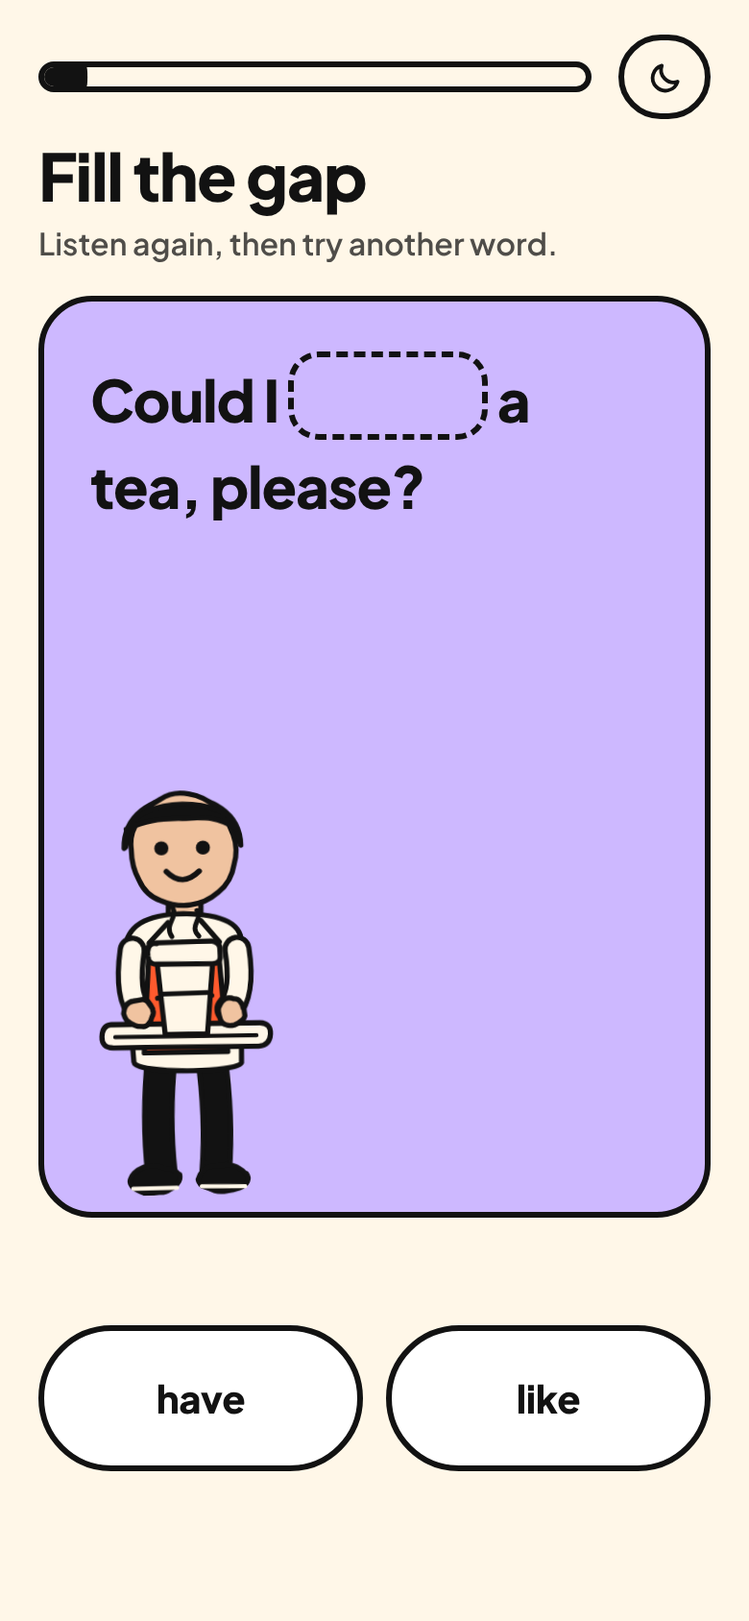
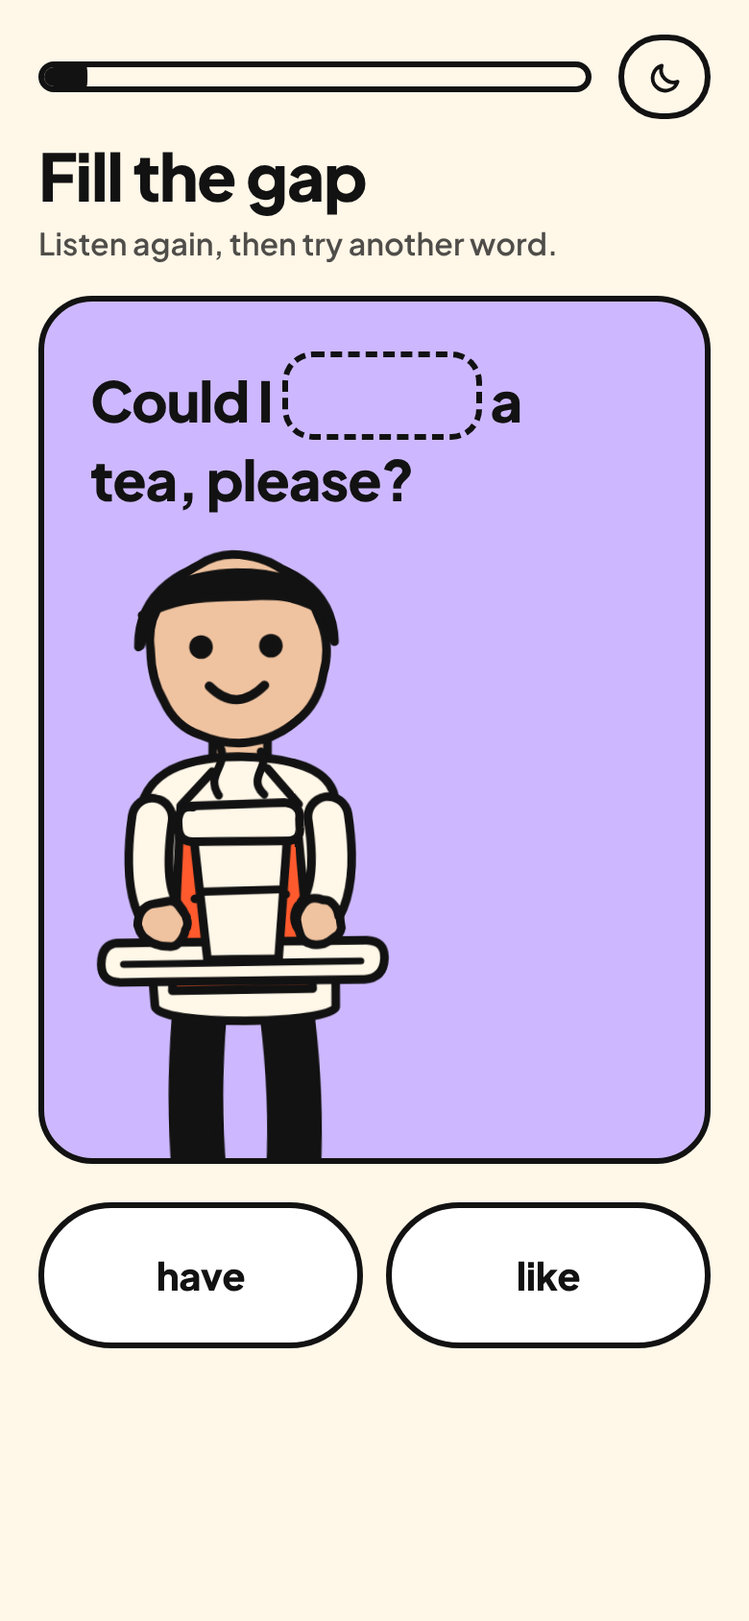
Talk with Maya: let Maya finish her line, drop the disc, fix the waiting pill contrast

Changed region(s): [[0.0308, 0.2156, 0.9538, 0.9242], [0.6154, 0.2156, 0.7077, 0.2773], [0.0308, 0.7701, 0.0615, 0.8009]]

diff --git a/docs/prototypes/01-talk-with-maya.html b/docs/prototypes/01-talk-with-maya.html
@@ -114,11 +114,7 @@ h1{
 .card[data-state="listen"] .scene{transform:translateY(16px) scale(1.07) rotate(-2.5deg)}
 .card[data-state="good"] .scene{transform:translateY(-6px) scale(1.04)}
 .card[data-state="miss"] .scene{transform:translateY(10px) scale(1.05) rotate(2deg)}
-/* the spotlight disc sits behind her head and holds the lean-in with her */
-.disc{
-  position:absolute; z-index:0; left:50%; width:352px; height:352px; margin-left:-176px; top:100px;
-  border-radius:50%; background:var(--cream); border:3px solid var(--ink);
-}
+/* No disc behind her: the card is one block colour and she is cropped straight into it. */
 .sway{width:100%; height:100%; animation:sway 3.4s ease-in-out infinite}
 @keyframes sway{0%,100%{transform:rotate(-1.1deg) translateY(0)} 50%{transform:rotate(1.1deg) translateY(-5px)}}
 .face{position:absolute; inset:0; opacity:0}
@@ -168,7 +164,8 @@ h1{
   transition:transform .14s var(--spring), opacity .2s;
 }
 .pill:active{transform:translateY(2px) scale(.985)}
-.pill[disabled]{opacity:.42; cursor:default}
+/* Dimmed, but the label still clears 4.5:1 against the pill. */
+.pill[disabled]{opacity:.68; cursor:default; box-shadow:none}
 .pill .chev{font-size:22px; line-height:1; margin-top:-2px}
 .pill svg{width:22px; height:22px; display:block}
 .pill .ring{
@@ -222,7 +219,6 @@ h1{
     </div>
 
     <div class="scene" id="scene">
-      <span class="disc" aria-hidden="true"></span>
       <div class="sway" id="sway">
         <div class="face on" data-face="idle"><svg class="art" aria-hidden="true" focusable="false" xmlns="http://www.w3.org/2000/svg" viewBox="0 0 704 704" fill="none" shape-rendering="auto"><mask id="viewboxMask-1"><rect width="704" height="704" rx="0" ry="0" x="0" y="0" fill="#fff" /></mask><g mask="url(#viewboxMask-1)"><g fill-rule="evenodd" clip-rule="evenodd"><path d="M705.3 1074a2351.1 2351.1 0 0 1-15.6-101c-1-7.7-2.5-16.4 2.7-22 7.3-8 14-14.8 14.8-26.2.8-10.7-2.8-22.4-5-32.8a809.4 809.4 0 0 0-17.3-64.7c-6.6-21.7-13.9-43.2-21.3-64.6-6.9-20-13.5-40.3-22.5-59.5-17-36.5-46-63.5-81.6-81.6-9-4.5-27-20.5-36.3-24-8.5-3.4-8.5 6.3-16.9 2.6-6.7-2.9-13-6.7-16.7-13.2-4-7-14.3-16.9-15.9-25-3.3-17.4.3-32.2-12-45.3a90 90 0 0 0-41.1-23.8c-33.7-9.3-78.5-2.8-98.8 28.5-9.7 14.9-13 33-26.2 45.1-11.4 10.7-8.8 18-23.6 23.4-.9.3-23.6-4.5-24.4-4.2-16.2-3.5-31.7 6.2-46.5 11.8a325.4 325.4 0 0 0-63 32.3 399.2 399.2 0 0 0-102.3 98.5 482.5 482.5 0 0 0-76.4 161c-1.7 6.4-3.5 13-1.5 19.4 1.7 5.3 5.4 9.2 9.8 12.4 6 4.3 18 7 17.7 15.7-.1 6.6-2.4 13.5-3.5 20-1.3 7.7-2.3 15.5-3.4 23.2-4.8 35.4-8.6 71-10.3 106.6a920 920 0 0 0-.5 106c.1 2.3.8 4.5 2 6.2-1 .4-1.2 2.4.1 2.7l2.7.5a12 12 0 0 0 7 2.4l5.5.2c19.3 4 38.6 7.9 58.1 10.8 23.8 3.5 47.6 6.3 71.5 8.7 49.2 4.8 98 3.2 147.1.6a1877 1877 0 0 1 147.4-2c49.2 1.4 98.4 3.5 147.6 4.4 55 1 110-.5 164.8-5 7.5-.5 12.2-6.5 10.7-14-8.9-44.7-19-89.1-27-134Z" fill="#d08b5b"/><path d="m201 597.5 1.2-.4c14.5-5.7 29.6-14.8 45.4-11.4.5-.2 10.8 1.9 17.9 3.2l-6.7 7L247 598c40.7 67.1 88.8 100.7 144.3 100.7 55.5 0 97.7-33.6 126.4-100.7l4-1c.4 0 1 .2 1.5.4 9.3 3.6 27.4 19.6 36.3 24.1 35.6 18 64.5 45 81.6 81.6 8.7 18.6 15.2 38 21.8 57.5l.7 2c7.4 21.4 14.7 43 21.3 64.6 6.3 20.4 12 41 16.6 61.8l.7 2.9c2.2 10.4 5.8 22 5 32.8a29 29 0 0 1-3 10.7l-80.4 29 38.4 261.3c-35.1 1.5-70.3 2-105.5 1.3-49.2-.9-98.4-3-147.6-4.3-47.7-1.2-95.3-.7-143 1.7l-12 .6a946.3 946.3 0 0 1-139.5-1l-3.1-.3v-38.3l16.3-212.9-83-15.6-81.3-39.5a21.7 21.7 0 0 1-5.6-8.8c-1.9-6-.5-12 1-18l.5-1.3a492.8 492.8 0 0 1 76.4-161A399.3 399.3 0 0 1 138 629.7c19.8-13 40.9-23.9 63-32.3Z" fill="#ffd93d"/><path d="M232.2 584.6c5.1-.3 10.3.6 15.4 1 .4.1.6.8 0 .9-9 1.9-18 4.5-26.9 7.1l-3.8 1.2c-10 3-19.8 6-29.6 10-19.4 7.9-37.8 18.5-54.8 30.8C67.2 682.8 20 754.3-9.9 828.3a526 526 0 0 0-24.3 77c-.4 1.6-2 5.4-1 7 .7 1.3 3.6 2.1 5 2.9l4.5 2.3 25.2 12.9 2.3 1.1c38 18.6 78.4 34.4 121 35.5l.4-3.7a342 342 0 0 1 9.9-60c.3-1 1.6-.6 1.7.3 3 23.1 2 46.4 1 69.7-1.8 41-4.3 82.2-6.5 123.3-1.2 20.6-2.6 41-3.9 61.7-1.3 20.5-1.7 41.6-4.7 62-.6 4.6-6 7-10 6.6-4.4-.5-7.9-4.5-8-9 0-11.9 1.5-24 2.4-35.8l2.5-33.8c3.1-41.1 6.8-82.2 10.2-123.3a4771 4771 0 0 1 3.8-43.7C76.4 979.8 34.2 963-6.1 943.5c-.6 13.2-2 26.5-3.4 39.6-3.8 36.8-7.1 73.6-9.6 110.5a2254.2 2254.2 0 0 0-4.2 92.7l-.2 7c0 4.4-.5 8.5-4.3 11.7-3.7 3.3-8.9 3.5-12.6 0-5-4.6-4.2-10.9-4-17.1a1675.6 1675.6 0 0 1 1.8-47.2 1321 1321 0 0 1 10.5-109.5l2-14c3.5-26 7.5-52.7 15.5-77.9-3.1-1.5-6.2-3-9.3-4.7-5.5-2.7-11.2-5.4-16.6-8.4-4.2-2.5-7.9-5.8-9-10.8-1.4-5.5.6-11.5 2-16.9v-.4a502 502 0 0 1 26.6-80 523.2 523.2 0 0 1 67.8-117 353.8 353.8 0 0 1 88.7-83.3 239 239 0 0 1 53.8-25.7 142.6 142.6 0 0 1 42.8-7.5Zm90.1-66c6-6.5 18.1.2 15.2 8.8a108.2 108.2 0 0 1-34.7 52A79.4 79.4 0 0 1 247 598l1.7 2.4a321.1 321.1 0 0 0 46.1 52.6c36 31.2 84.8 48 132 36 37.1-9.4 69.8-38.8 79.4-76.2-1.3.6-3 .9-4.8.5-7.7-1.7-15.3-9.8-20.3-15.6-5.3-6.3-9.5-13-12.6-20.7-5.6-14-7.4-32.1.3-45.7 1-1.7 3-.7 3.3 1l.3 2.5c1.5 12.7 3.3 25 9.3 36.6a76 76 0 0 0 18.2 23.1c2.6 2 5.8 3.6 8.1 6l.5.4c.6-5 4.1-7.3 7.6-7.2 3.3.2 7.3 1.6 8.8 2.3l.1.1a341 341 0 0 1 65.1 42 259 259 0 0 1 88.4 129c7.5 25.3 11.8 51.4 16.3 77.4l2.8 16c4.2 23.9 8.9 48.4 18.4 70.7 2.5 5.7.6 11.1-5.5 13.4A1493 1493 0 0 1 688 953c3.7 16 6 32.5 8.7 48.5 6 34.1 13.2 68 19.4 102 3.2 17.5 6.1 35 9.3 52.3l4.7 25.2 2.4 13.6.1.7c.5 2.4 1 4.9.4 7.3-.8 2.7-2.9 4.6-4.8 6.6-1.6 1.6-3.8 1.6-5.7.7l-.7-.3c-3.4-1.6-6-3.2-7.3-7-.7-2.5-1-5.2-1.5-7.7a3535.6 3535.6 0 0 1-7.8-43.6l-1.6-9.1c-5.2-31.4-10.2-62.9-12.8-94.5-1-14-2.3-28.1-3.5-42.2l-.9-10.5c-1.1-13.3-2.5-27-2.7-40.5l-4.5 1.6L657 964c-5.5 2-12.5 6-18.4 5.2-2.9-.3-5-1.2-6.8-2.9 2 28.8 4.8 57.4 8.5 86a1965.7 1965.7 0 0 0 22 135c.6 3.2 1.4 6.4 1.9 9.6.5 3.7-.5 5.9-2.5 9-1.7 2.4-5 3.7-7.8 2-3.6-2.3-5.5-4.3-6.5-8.4-1-3.7-1.6-7.6-2.3-11.4a1654.2 1654.2 0 0 1-11.4-65.2c-7.8-52-12.7-104.4-15.2-156.8a1388 1388 0 0 1-1.4-77.8c0-13.3.5-26.6 1.4-39.9 1-13.4 3-26.5 4.8-39.8 0-.5.7-.5.7 0 .8 14.9 2.1 29.8 2.8 44.7.6 14.3.9 28.5 1.4 42.8.6 18.7 1.5 37.5 2.7 56.2a9.6 9.6 0 0 1 8.5-3.1c4.7-1 9.7-3.4 14.1-5l16.8-5.5 26.4-8.7a679 679 0 0 1-18-80.8l-2-12.3c-4-24.2-8.5-48.5-15.8-72a229.8 229.8 0 0 0-34.8-68.2 370.2 370.2 0 0 0-52.7-55.3C557 627 539.7 614 523 600c.1.9.2 2 0 3-3.5 25.9-17 50-35.8 67.9-37.7 36-93.6 43.4-142 26.5-46.7-16.3-88-55-102.6-102.8-.3-.8.8-1 1.3-.5l2.4 3.3c0-.4.2-.9.7-1a129 129 0 0 0 46.6-29.2 100.2 100.2 0 0 0 21.3-33.3l.4-1c1.7-5 3.2-10.2 7-14.2Z" fill="#000"/></g><g transform="matrix(.99789 0 0 1 156 62)"><g fill-rule="evenodd" clip-rule="evenodd"><path d="M120.4 26.5c63-3.4 118.9-21.1 163.2 18.5 0 0 71.8-53.6 83.8-33.2 8 13.7-3.1 32-.2 49 19.5 33 18.4 89.2 19.5 102.4 2.8 33.1 20.2 157.9 20.2 187.5 0 15.1-12.4 54.7-20.2 76.8-17.3 49-50.3 74-104.4 74-54 0-142.4-45.2-170.7-85.3-2.5-3.5-18.5 6.7-35.3-11C58 385.7 48 349 48 327c0-27.8-18-47.1-15.9-82.8 4.7-79.5 21-214 88.3-217.8Z" fill="#d08b5b"/><path d="M367.4 11.6c8 13.7-3 32 0 49 7.4 12.7 11.9 29 14.6 44.8l-14.8 7.8-5.4.8c-88.2 13-144.6 24.7-169 35.1-24.6 10.5-54.5 47.5-89.7 110.8l-1 2-7 47.2-32 9.8-15 7.1c-.4-27.3-18-46.6-16-81.9 4.7-79.5 21-214 88.4-217.8 63-3.4 118.8-21.1 163.2 18.5C331.5 9.1 359.4-2 367.4 11.6Z" fill="#ffd93d"/><path d="M113.4-66h2.5l2.7.4a22 22 0 0 1 12 6.8l.2.3a31 31 0 0 1 4.1 3.7l.7-.6 2-1.6c3-2.6 6.6-4.5 10.4-5.6l.5-.1h.3c2.7-1 5.6-1.4 8.4-1.4 3.5-.1 6.9.4 10 1.7 3.9 1.6 7.2 4 10 7 1.8 1.6 3.4 3.2 5 5a37.5 37.5 0 0 1 8.6 14.9 170.7 170.7 0 0 1 27-1.3 132.3 132.3 0 0 1 45.9 9.9c3.6 1.4 7.1 3.3 10.4 5.5l2.8 1.7 4.1 2.5c3.2 2 6.3 4.4 9.2 7A99.8 99.8 0 0 1 301.1 0c6.3 3.4 12 7.8 17.2 13a128.4 128.4 0 0 1 28.2-11.9 98.6 98.6 0 0 1 18.8-3.5l4.1-.3 1.8-.2h1.5c.4-.1 1 .9 1 1.3l.1.3.9 1h.8c.7 0 1.6 1.3 2.1 1.9l.4.4a4 4 0 0 1 1 2c.6 4.1 1 8.3 1.5 12.5.1 3.1 0 6.2-.5 9.3l-1.2 9-2 6.3-.7 2.4c-1.6 5.3-3.5 10.4-5.7 15.4 1.6 1.8 3.1 3.6 4.5 5.6l1 1 .4-.3c.5-.2.8 0 1.1.4 3.2 3 5.4 6.6 6.9 10.6l.8 2 .5 1.1a73.7 73.7 0 0 1 4.1 16.9 312 312 0 0 1 5.5 22 5 5 0 0 1-.2 3l.9 1 1.6 1.5c2.7 2.7 5.5 5.6 7.5 8.8 2 3.3 3.6 6.9 5.3 10.4l.3.8.8 1.5a37 37 0 0 1 4 14.6 30.3 30.3 0 0 1-1.9 15.6c-1 4.6-3.5 8.8-7.3 11.5-.9.8-1.7 1.5-2.7 2a8.4 8.4 0 0 1-6.8.9h-.3l-.8-.3c.4.3.6.7 0 1a5 5 0 0 1-1.6.5c.2.3.2.6-.2.8-1 .5-1.8.7-2.6.5l.2 1.4c1.3 10.5 2.5 12.6 3.5 24 .7 11.5 1.8 23 3.3 34.5l.5 4.2a444.4 444.4 0 0 0 10 56.8c1.5 4.4 2.5 8.8 3 13.4a133 133 0 0 1 1.8 14.1c1.1 3 1.7 6.1 1.7 9.3.1 4.2 0 8.4-.5 12.6-.2 4.4-.8 8.7-1.8 13a73.5 73.5 0 0 1-4.6 17 164.8 164.8 0 0 1-20.2 44c-5 7.8-10.3 15.4-16.4 22.4A153.4 153.4 0 0 1 304 504a99.8 99.8 0 0 1-47 2.8 96 96 0 0 1-19.5-4.7c-5.2-1.8-10-4-15-6.3a80 80 0 0 1-21.4-15.7c-.5-.4-.2-1 .4-1.2h.2l-.7-.7-.2-.1-.3-.3c-.4-.4 0-1.1.3-1.3h.5v-.2l-.1-.2h-.2c-.5-.5-.2-1.2.4-1.4h1.3l.2.1-.4-.3c-.6-.5-.4-1 .3-1.3.6 0 1.1.2 1.7.3h.4l.6.3-1-1c-.4-.2 0-1 .3-1.2.4-.3 1.2 0 1.6.3.9.1 2 .5 2.5.9l3.7 3.3c.8.3 1.5.6 2.1 1 1.4 1.5 3 2.8 4.5 4l1.1.8.6.4 6.6 3.9 24 8.1 1.2.3 7.7 1c5.2.5 10.3.5 15.4 0a106 106 0 0 0 30.1-6 141.3 141.3 0 0 0 29.3-15.4 181.4 181.4 0 0 0 19.8-17.5l.9-.8 5.3-6.3 1.6-1.9c6.6-8.1 12.5-17 17.7-26 5.2-9 9.5-18.5 13-28.3 1-3.5 2-7 2.8-10.6a58.3 58.3 0 0 0 3.3-15.8v-1.4l.1-.7a85.7 85.7 0 0 0 .6-8.4v-8.7l-.1-.8-.3-2-1.3-11.8-.6-4.5-.4-2.6-.2-1.5a99 99 0 0 0-1.7-8l-.3-1.1-1.8-8.8-2-8.6a681.6 681.6 0 0 1-9.8-73.1c-.7-8.6-1-17.3-1.2-26 0-.4.2-.7.6-.9v-1.6c-.1-1.5-.1.3-.2-1.4v-5.3c-5.3.4-8.9 0-14-.2h-1c-4.7-.3-9.4-.8-14-1.6 0 .3-.2.4-.5.5h-1.4l.2.7c0 .3-.1.5-.5.6h-1.3a30.2 30.2 0 0 1-10-1l-3-.8-7.5-2.4c-2.6-.6-5.3-.8-8-.1-3 .7-5.4 2-8.5 1.2l-1.8-.7h-.8c-3.2-.5-6-2.5-9-3.6a5 5 0 0 0-3.2.2l-.3.2-1 .7-1.2 1.5-.6.7a15 15 0 0 1-3.6 3.4 9.1 9.1 0 0 1-6.2 2.6c-1.3 0-2.7-.3-4-.7-5 1.6-10.3 1.9-15.3.4a22.1 22.1 0 0 1-8.3-3c-3.5 1.4-6.9 3.4-10.2 5l-.8.5A22.7 22.7 0 0 1 234 197a139.8 139.8 0 0 1-14.8-1.8l-.7-.1-2.4-.4-2-.4-1 .4c-8 3-16.7 5.4-24.8 3.3a22 22 0 0 1-10-3.9l-1.3-.8h-.1l-.1-.1a11 11 0 0 1-6.5-11.2c-.3-1.5-.3-3 0-4.6l-4.3 5a334.7 334.7 0 0 0-15.7 20.1l-1 1.6c-2.8 3.8-5.3 7.8-7.6 11.8l-7.3 12c-3.2 3.5-6.3 7.2-9.4 11l-1.2 1.5-4.4 5.7a116.5 116.5 0 0 0-13.4 24.3 97.3 97.3 0 0 0-5.2 20.7v1a60 60 0 0 0-.3 3.5l.7.5.7.3.6.1c1 .3 2.5 1 2.1 1.6l-1.9 3.7c.2.2.3.5.2.7l-4 7.4v.2l3.1 1.7c2 1.2 3.5 2.6 4.9 4.2 1.4.9 2.8 1.8 4 2.9a30.5 30.5 0 0 1 6.8 11.3c.3 1 .5 2.1.5 3.3-1.2 8.5-11 2.7-11.2 2a26 26 0 0 0-6.3-12.3l-.1-.1c-2-.9-4-1.8-6-2.4l-1 .1c.3.5.1 1-.6 1.1-3.1.6-6.3.8-9.5.5l-4.9-.7c-2 .8-4 1.8-5.7 3l-.6.4h-.1A38.8 38.8 0 0 0 60.7 341l-.3.7A55.7 55.7 0 0 0 66 380 316 316 0 0 0 76 395.2l3.4 4.5a172 172 0 0 1 6.9 6.8l3.1 1.7 1.3.4c2 1 4.1 1.5 6.4 1.6 3 .2 5.8-.2 8.6-1l.6-.3.4-.1c1.5-1 3-2.2 4.3-3.6.3-.3.8-.3 1.5-.2l1-1.1c.2-.3.6-.3.9 0 1-.2 3.5 1.3 2.8 2l-.3.6 1.3.7c2 .6 5.2 2.7 5 3.3h-.1c-.5 1-1.1 1.8-2 2.4l-.2.2-.6.4c.9.5 1.6 1.1 1.2 1.5l-.5 1 5 6.2c1.7 3.7 3.8 7 6.3 10.2 2 3.5 4.5 6.5 7.5 9.3l.7.7 6.7 4.5 1 .6c.5.3 1.4.7 1 1.5l-.2.2c1.5 1 3 1.9 4.6 2.7h.1c.6.5 1.4 1.2.6 1.7-.7.5-2.6-.8-3.5-1.4l-.6-.1.9.5.4.2c.4.3 2.1 1.4 1 1.9-.7 0-1.2-.1-1.7-.5l-1.8-.9c.2.3.2.6-.3.8a3 3 0 0 1-.5 0c1.2.8 2.4 1.5 3.7 2.1l.2.1c.5.4 1.3 1 .7 1.6-.7.6-2.6-.7-3-1l-1.5-.9a1 1 0 0 1-.4.1l1.3.8.6.4c.8.4 1.9 1 1.5 1.8-.4.7-1.6.1-2.3-.3l-.8-.5-.1-.1v.1c-.5.7-1.4.3-2 0l-.6-.4-2.6-1.6-1.3-.8a82.6 82.6 0 0 1-19.3-15.5c-4.1-4.7-7.3-10.1-10.3-15.6l.2-.6-1-2a29.6 29.6 0 0 1-14.7 0 37.3 37.3 0 0 1-15-6.1l-.7-.6c-1.9-1-3.6-2.2-5.2-3.6a87 87 0 0 1-14.8-16.1l-5.5-7.7a66 66 0 0 1-9.7-26.6 53.5 53.5 0 0 1 0-18.1l-1-.9c0 .3-.2.5-.3.4l-2.3-2.3a53.3 53.3 0 0 1-14-32.6c-.7-5.2 0-10.2.7-15.3 0-.3.2-.5.5-.7l.1-1.2a35.2 35.2 0 0 1-11-25.7c.2-3.2.8-6.4 2-9.3l.2-.3c-5.5-.9-9.9-4.8-13.2-9.6l-.8-.7c-6-5-10-12.2-12.8-19.7a46 46 0 0 1-3.9-13.9v-1a89 89 0 0 1-1.2-23 114.8 114.8 0 0 1-4-21.5v-.5l-.2-1v-.6a139 139 0 0 1 11-62.3l2.2-5.3.7-1.9c8-12.8 20-23.2 30-34.1 3.5-3.8-2.1-9.5-5.6-5.7C16 61.6 8.8 68.6 2.4 76a28.1 28.1 0 0 1-9.3-.8c-4.7-.7-9-2.6-12.8-5.4-5.2-2.4-9.7-7-10.1-13v-1.7c-.5-3 0-6 1.2-8.8a15.2 15.2 0 0 1 5.4-8l.1-.2.7-.6 1-.9a54.8 54.8 0 0 1-3.6-6.9 28.4 28.4 0 0 1-2.2-11.5l-.1-1.5c-.3-4 .2-8.1 1.7-11.8l.3-.9 1-2.5c1.5-3.1 3.6-5.8 6.2-8a25.6 25.6 0 0 1 8-5.3c2.2-1.2 5-2.2 7.2-2.3h.8c.2-5.7 1-12 3.2-17.2 1.3-3.7 3.3-7 6.3-9.5C9-42.6 11.2-44 13.9-45l.5-.2h.1a17 17 0 0 1 7.7-1.6A17.3 17.3 0 0 1 32.8-44l1.5-2.6c2-3.1 4.2-5.8 7-8.3l1-.8 4-3.3c3.2-2.1 6.6-3.8 10.2-4.8 4.1-1.5 8.5-2.2 12.8-2h1.5a38.6 38.6 0 0 1 23.8 10c.8-1 1.7-2 2.8-3l1-.8.7-.7c1.2-1 2.5-2 3.9-2.8 1.5-.9 3.2-1.5 5-1.9 1.7-.6 3.5-1 5.4-1ZM92.8 346.3c.2 0 9.5 3.4 14 5.7h.3c5.3 2.7 8 4.6 12.7 8 .3.3.6.6.6 1 0 4.9-1.2 11-5.3 8.2l-1.8-1-1-.6c-9-5.6-18.5-9.9-28.6-13-.7-.2 4.4-8 5.8-7.5-.8-.3 3.2-.8 3.3-.8Zm95-218.1a4591.5 4591.5 0 0 1-29.5 3 81.9 81.9 0 0 1-23.3-1.4c-1.4 1-2.8 2-4.2 2.8l-15.9 12.1c-10.6 8.4-21 17.3-30.4 27a176.8 176.8 0 0 0-38.2 59.4c-.7.4-1.3 1.2-1.5 2.4-1.5 9-5.8 17.4-7.4 26.4-1.5 9 .5 16.5 6.1 23.6 1.2 1.5 3.7 1.4 5.2.4.3.7 1.8.6 2.4-2.4 2.5-2.7 4.6-5.5 6-9 1-2.6-.7-4.4-2.9-4.7a136.8 136.8 0 0 1 16.2-36.6 151.8 151.8 0 0 1 16.5-20.5l1.2-1.4c.2-.2.5-.2 1 0l1-1.3c.4-.4.8-.2 1 0 .7 0 1.8.6 2.2.8.6.4.8.9.3 1.5l-.3.3c.7.2 1.4.6 1.9 1 1.8.4 4.4 2.1 4 2.7l-2.8 3c.8.5 1.3 1 1.1 1.3A122.8 122.8 0 0 0 64.3 290v.7c-.3 3.5-.3 13-.7 15.3A49.6 49.6 0 0 0 72 309l.8-.3a28.1 28.1 0 0 1 11.6-2h.6l2.1.1v-1.2c-.3 0-.4-.3-.4-.5a66.2 66.2 0 0 1 2.3-26.2 107 107 0 0 1 5.1-15.6c6-14.4 14.6-27.4 23.2-40.4 6.3-9.4 12.2-19 18.8-28.4 5.5-7.9 11.3-15.7 17.5-23a235 235 0 0 1 23.3-24.2c6.7-6 14-11 21.6-15.8.3-.2.8 0 1.2.4l1.2-.8.6-.3c.2-.1.4 0 .6.2l1.5-.8 1.2-.9c-5.7-.2-11.3-.7-16.9-1.2Zm70.5-66.7c-4.5-.9-9-1-13.7-.3-1.9.2-3.8.6-5.7 1 4.3 3.7 7.8 8.5 10 14 2.4 6-7.2 8.6-9.6 2.7-2.3-5.7-6.7-10-12-12.6l-3.3 2a36.4 36.4 0 0 0-10.6 14.3 41.4 41.4 0 0 0-1.5 8c-1 10.3 2 20.4 7 29.3h.3c4.5-2.5 9.3-4.6 14.2-6.3a132.6 132.6 0 0 1 40.1-18l1.2-.3 6.9-1.6 1.4-.2-.2-1.5a43.6 43.6 0 0 0-15.3-27v-.1c-1.7-1-3.5-1.8-5.3-2.4l-.7-.3-3.2-.7Zm-121.9-8.9a161.3 161.3 0 0 0-58.9 5.5l2.3 4.6c3.8 7.7 7.7 15.3 12.3 22.5a108.3 108.3 0 0 0 15.9 19.6c2 1.8 4.3 3.3 6.8 4.6 2 1.4 4 2.7 6.1 3.8l.8.4 7.5 2.9 1.2.3.6.2 1.2.2.8-.5.5-.2c.2-.1.4.1.4.3v.3l1-.6a31.3 31.3 0 0 0 9 2.2h.1v.1h1.1c7.5.8 15.1-.2 22.6-1.5 10.5-1 21-2.3 31.6-3.4.2 0 .3.1.3.3l.7-.1c1-.1 2 1.5 1.3 2l1.5 1.2h.3a43.5 43.5 0 0 1-3.4-8.9l-1-5.2a47.3 47.3 0 0 1-.6-8.5v-2.2l-6-2.1-17.6-2.2a249.4 249.4 0 0 0-22.4 2.1c-.3 0-1-.4-1.4-1l-1.7.2c-.9.1-1.8-1.6-.6-2l1.2-.5.7-.2h-.8c-1 0-2 .2-2.8.3-1.2.1-1-1.4-.1-1.8h.4c-.7-.5-1.3-1.7-.5-2l.2-.1 1.1-.5v-.3l-1.6.2c-.1 0 .6-1 1-1.3l.8-.2c0-.4.7-1.1 1-1.2a102.8 102.8 0 0 1 14.2-3.7c0-.2.2-.3.3-.3a68.4 68.4 0 0 1 32.6 3.7l1 .4 2.8 1.1a40.3 40.3 0 0 1 2.1-6l-1-.5c-.1.4-.6.7-.8.5-7-4.7-14.3-8.6-22-11.7a112.8 112.8 0 0 0-23.8-7.6c-6-1.6-12-2.7-18.3-3.2Zm229 16-2.6 4.2c-4.5 7-10 13.4-16.1 19.1a50 50 0 0 1 12.8 1.6c.2-.2.4-.3.6-.2l.7.5a52.6 52.6 0 0 1 15.5 7v-4.6a82 82 0 0 0-6.3-20.5v-.5c-1.3-2.3-2.9-4.6-4.6-6.7Zm1.3-56.8-6.2 1.5c-3.9.6-7.6 1.6-11.2 3a188 188 0 0 0-14.7 6c-9.3 4.3-18.1 9.7-26.1 16.1l-1.5 1.2a79.2 79.2 0 0 0-5.2 4.9l-5.2 5.6c-2.1 2.3-4.5 4.3-6.5 6.7l-1 1.5 1.1.4c1 .4.8 2.1-.1 1.9l-1-.3c.2.1.3.3.3.4 0 .5-.3 1.2-1 1l-.7-.3-.2 1h.2c.7.2 2 1.3 2 2 .2.5-.2 1-.8 1l-1.3-.6c.3.3.5.6.5.8 0 .5-.4 1.1-1 1a7 7 0 0 1-2.4-1.3c-.2.3-.5.5-.7.4l-.4-.1.3.3.2.2c2.7 3 5.1 6.2 7 9.8l.4-.3 2.8-2.2.3-.3.2-.2-2 .7c.1-.3.6-1 .8-1.1 3-2.6 6-4.8 9.5-6.6a141.6 141.6 0 0 1 24.5-10.2l2.7-.9c.2 0 .3 0 .3.2l.4-.1c.9-.3 2.3 1.2 1.7 1.9l1 .9.2.2h.3c.7-.3 1.9.8 2.6 1.6l.6.6c.4.5 1.3 1.4.2 1.8l-1.2.4c0 .3-.1.5-.5.7l-1.3.4.7.7.4.4c.5.5 1.5 1.5.6 2h-.1l-1.2.4c.1.4 0 .7-.5 1-7.1 2.4-14.2 5.2-21 8.5-5.1 2.8-10.6 5-16.3 6.3-.4.2-1.5-.5-1.9-1.2l-.8.2-.5.1a44 44 0 0 1 2.3 9.8l3.4-.2c7.7-.4 15.6-.2 23.3.7a93 93 0 0 0 11.7-8.2 100.3 100.3 0 0 0 24-31 78 78 0 0 0 8.6-34.8V17.4l-.6-5.7Zm-73.2 67-.8.2.4 1 1-.8c-.2 0-.4-.2-.6-.4Zm71.8-81.2c1.8-.6 3.2-.8 4.1-.3-1.4 0-2.7.2-4 .3Z" fill="#000"/></g></g><g transform="translate(315 248)"><path fill-rule="evenodd" clip-rule="evenodd" d="M146.6 241a40.7 40.7 0 0 1-17.1-13.2c-1.5-2-2-4.2-1.6-6.2a8.9 8.9 0 0 1 9.6-7.2c1.9.3 3.7 1.3 5.2 3.5l.3.4a27 27 0 0 0 10 8.3c3.6 1.8 7.8 2.6 12.1 2.1 8.3-1 14-5.4 20-11.4l2.2-2.3c.5-.8 1.1-1.2 1.9-1.5a4 4 0 0 1 4.6 1.6c.4.7.7 1.5.6 2.5a25.7 25.7 0 0 1-8.5 16.2c-5.1 4.9-12 8.2-18.4 9.4-7.1 1.3-14.4.4-21-2.3Zm24.2-96.6c7.6 4.6 19 15.3 11 26.6-9.6 10-23.4-1.4-30.2-6.6-6.3-4-13.3 6.3-7.5 11 49 36.3 69-29.8 30.5-36.4-4.2-.8-5.8 4-3.8 5.4ZM83 102c.8-10.3 16.6-12.7 18.1-2.4a42 42 0 0 1-4.3 25.9c-4 7.9-14 4.2-14.7-3-1-9.7.3-14 .9-20.5Zm120-4.5c2.2-3 5.4-4.9 9.2-3.8 11.9 3.5 8.4 20.4 4.2 28.6-2.3 4.4-9.6 5.6-12.9 1.6-5.4-6.4-8-19.1-1.1-25.5l.6-1ZM96.6 56.8l1.9-.3c5.8-1 13-2 17.1 2.7 2.2 2.5 3 7 0 9.4-5.1 4.2-10.8 2.6-17 3-5.1.2-10 1-14.9 2.5C73 77 64.2 82.8 55 88.9c-1.2.8-2.4-.7-1.9-1.8a59.3 59.3 0 0 1 26-24.1 64 64 0 0 1 17.5-6.2Zm95.6-4.6 1.4.3c15.7 3.2 36 9.8 43.4 25.1.3 2.2 0 2.7-.3 3-.2.3-.4.7-1.4 1A36 36 0 0 1 226 78l-2.8-1.4a77.7 77.7 0 0 0-10.1-4.3c-7.5-2.4-15.1-4.1-23-5a9.4 9.4 0 0 1-4.5-1.8 7 7 0 0 1-2.6-4 7 7 0 0 1 .8-5.8 7.4 7.4 0 0 1 3.6-3.1c1.5-.6 3.2-.8 4.9-.4Z" fill="#000"/></g><g transform="translate(279 400)"></g><g transform="translate(179 343)"></g><g transform="translate(203 303)"></g></g></svg></div>
         <div class="face" data-face="talk"><svg class="art" aria-hidden="true" focusable="false" xmlns="http://www.w3.org/2000/svg" viewBox="0 0 704 704" fill="none" shape-rendering="auto"><mask id="viewboxMask-2"><rect width="704" height="704" rx="0" ry="0" x="0" y="0" fill="#fff" /></mask><g mask="url(#viewboxMask-2)"><g fill-rule="evenodd" clip-rule="evenodd"><path d="M705.3 1074a2351.1 2351.1 0 0 1-15.6-101c-1-7.7-2.5-16.4 2.7-22 7.3-8 14-14.8 14.8-26.2.8-10.7-2.8-22.4-5-32.8a809.4 809.4 0 0 0-17.3-64.7c-6.6-21.7-13.9-43.2-21.3-64.6-6.9-20-13.5-40.3-22.5-59.5-17-36.5-46-63.5-81.6-81.6-9-4.5-27-20.5-36.3-24-8.5-3.4-8.5 6.3-16.9 2.6-6.7-2.9-13-6.7-16.7-13.2-4-7-14.3-16.9-15.9-25-3.3-17.4.3-32.2-12-45.3a90 90 0 0 0-41.1-23.8c-33.7-9.3-78.5-2.8-98.8 28.5-9.7 14.9-13 33-26.2 45.1-11.4 10.7-8.8 18-23.6 23.4-.9.3-23.6-4.5-24.4-4.2-16.2-3.5-31.7 6.2-46.5 11.8a325.4 325.4 0 0 0-63 32.3 399.2 399.2 0 0 0-102.3 98.5 482.5 482.5 0 0 0-76.4 161c-1.7 6.4-3.5 13-1.5 19.4 1.7 5.3 5.4 9.2 9.8 12.4 6 4.3 18 7 17.7 15.7-.1 6.6-2.4 13.5-3.5 20-1.3 7.7-2.3 15.5-3.4 23.2-4.8 35.4-8.6 71-10.3 106.6a920 920 0 0 0-.5 106c.1 2.3.8 4.5 2 6.2-1 .4-1.2 2.4.1 2.7l2.7.5a12 12 0 0 0 7 2.4l5.5.2c19.3 4 38.6 7.9 58.1 10.8 23.8 3.5 47.6 6.3 71.5 8.7 49.2 4.8 98 3.2 147.1.6a1877 1877 0 0 1 147.4-2c49.2 1.4 98.4 3.5 147.6 4.4 55 1 110-.5 164.8-5 7.5-.5 12.2-6.5 10.7-14-8.9-44.7-19-89.1-27-134Z" fill="#d08b5b"/><path d="m201 597.5 1.2-.4c14.5-5.7 29.6-14.8 45.4-11.4.5-.2 10.8 1.9 17.9 3.2l-6.7 7L247 598c40.7 67.1 88.8 100.7 144.3 100.7 55.5 0 97.7-33.6 126.4-100.7l4-1c.4 0 1 .2 1.5.4 9.3 3.6 27.4 19.6 36.3 24.1 35.6 18 64.5 45 81.6 81.6 8.7 18.6 15.2 38 21.8 57.5l.7 2c7.4 21.4 14.7 43 21.3 64.6 6.3 20.4 12 41 16.6 61.8l.7 2.9c2.2 10.4 5.8 22 5 32.8a29 29 0 0 1-3 10.7l-80.4 29 38.4 261.3c-35.1 1.5-70.3 2-105.5 1.3-49.2-.9-98.4-3-147.6-4.3-47.7-1.2-95.3-.7-143 1.7l-12 .6a946.3 946.3 0 0 1-139.5-1l-3.1-.3v-38.3l16.3-212.9-83-15.6-81.3-39.5a21.7 21.7 0 0 1-5.6-8.8c-1.9-6-.5-12 1-18l.5-1.3a492.8 492.8 0 0 1 76.4-161A399.3 399.3 0 0 1 138 629.7c19.8-13 40.9-23.9 63-32.3Z" fill="#ffd93d"/><path d="M232.2 584.6c5.1-.3 10.3.6 15.4 1 .4.1.6.8 0 .9-9 1.9-18 4.5-26.9 7.1l-3.8 1.2c-10 3-19.8 6-29.6 10-19.4 7.9-37.8 18.5-54.8 30.8C67.2 682.8 20 754.3-9.9 828.3a526 526 0 0 0-24.3 77c-.4 1.6-2 5.4-1 7 .7 1.3 3.6 2.1 5 2.9l4.5 2.3 25.2 12.9 2.3 1.1c38 18.6 78.4 34.4 121 35.5l.4-3.7a342 342 0 0 1 9.9-60c.3-1 1.6-.6 1.7.3 3 23.1 2 46.4 1 69.7-1.8 41-4.3 82.2-6.5 123.3-1.2 20.6-2.6 41-3.9 61.7-1.3 20.5-1.7 41.6-4.7 62-.6 4.6-6 7-10 6.6-4.4-.5-7.9-4.5-8-9 0-11.9 1.5-24 2.4-35.8l2.5-33.8c3.1-41.1 6.8-82.2 10.2-123.3a4771 4771 0 0 1 3.8-43.7C76.4 979.8 34.2 963-6.1 943.5c-.6 13.2-2 26.5-3.4 39.6-3.8 36.8-7.1 73.6-9.6 110.5a2254.2 2254.2 0 0 0-4.2 92.7l-.2 7c0 4.4-.5 8.5-4.3 11.7-3.7 3.3-8.9 3.5-12.6 0-5-4.6-4.2-10.9-4-17.1a1675.6 1675.6 0 0 1 1.8-47.2 1321 1321 0 0 1 10.5-109.5l2-14c3.5-26 7.5-52.7 15.5-77.9-3.1-1.5-6.2-3-9.3-4.7-5.5-2.7-11.2-5.4-16.6-8.4-4.2-2.5-7.9-5.8-9-10.8-1.4-5.5.6-11.5 2-16.9v-.4a502 502 0 0 1 26.6-80 523.2 523.2 0 0 1 67.8-117 353.8 353.8 0 0 1 88.7-83.3 239 239 0 0 1 53.8-25.7 142.6 142.6 0 0 1 42.8-7.5Zm90.1-66c6-6.5 18.1.2 15.2 8.8a108.2 108.2 0 0 1-34.7 52A79.4 79.4 0 0 1 247 598l1.7 2.4a321.1 321.1 0 0 0 46.1 52.6c36 31.2 84.8 48 132 36 37.1-9.4 69.8-38.8 79.4-76.2-1.3.6-3 .9-4.8.5-7.7-1.7-15.3-9.8-20.3-15.6-5.3-6.3-9.5-13-12.6-20.7-5.6-14-7.4-32.1.3-45.7 1-1.7 3-.7 3.3 1l.3 2.5c1.5 12.7 3.3 25 9.3 36.6a76 76 0 0 0 18.2 23.1c2.6 2 5.8 3.6 8.1 6l.5.4c.6-5 4.1-7.3 7.6-7.2 3.3.2 7.3 1.6 8.8 2.3l.1.1a341 341 0 0 1 65.1 42 259 259 0 0 1 88.4 129c7.5 25.3 11.8 51.4 16.3 77.4l2.8 16c4.2 23.9 8.9 48.4 18.4 70.7 2.5 5.7.6 11.1-5.5 13.4A1493 1493 0 0 1 688 953c3.7 16 6 32.5 8.7 48.5 6 34.1 13.2 68 19.4 102 3.2 17.5 6.1 35 9.3 52.3l4.7 25.2 2.4 13.6.1.7c.5 2.4 1 4.9.4 7.3-.8 2.7-2.9 4.6-4.8 6.6-1.6 1.6-3.8 1.6-5.7.7l-.7-.3c-3.4-1.6-6-3.2-7.3-7-.7-2.5-1-5.2-1.5-7.7a3535.6 3535.6 0 0 1-7.8-43.6l-1.6-9.1c-5.2-31.4-10.2-62.9-12.8-94.5-1-14-2.3-28.1-3.5-42.2l-.9-10.5c-1.1-13.3-2.5-27-2.7-40.5l-4.5 1.6L657 964c-5.5 2-12.5 6-18.4 5.2-2.9-.3-5-1.2-6.8-2.9 2 28.8 4.8 57.4 8.5 86a1965.7 1965.7 0 0 0 22 135c.6 3.2 1.4 6.4 1.9 9.6.5 3.7-.5 5.9-2.5 9-1.7 2.4-5 3.7-7.8 2-3.6-2.3-5.5-4.3-6.5-8.4-1-3.7-1.6-7.6-2.3-11.4a1654.2 1654.2 0 0 1-11.4-65.2c-7.8-52-12.7-104.4-15.2-156.8a1388 1388 0 0 1-1.4-77.8c0-13.3.5-26.6 1.4-39.9 1-13.4 3-26.5 4.8-39.8 0-.5.7-.5.7 0 .8 14.9 2.1 29.8 2.8 44.7.6 14.3.9 28.5 1.4 42.8.6 18.7 1.5 37.5 2.7 56.2a9.6 9.6 0 0 1 8.5-3.1c4.7-1 9.7-3.4 14.1-5l16.8-5.5 26.4-8.7a679 679 0 0 1-18-80.8l-2-12.3c-4-24.2-8.5-48.5-15.8-72a229.8 229.8 0 0 0-34.8-68.2 370.2 370.2 0 0 0-52.7-55.3C557 627 539.7 614 523 600c.1.9.2 2 0 3-3.5 25.9-17 50-35.8 67.9-37.7 36-93.6 43.4-142 26.5-46.7-16.3-88-55-102.6-102.8-.3-.8.8-1 1.3-.5l2.4 3.3c0-.4.2-.9.7-1a129 129 0 0 0 46.6-29.2 100.2 100.2 0 0 0 21.3-33.3l.4-1c1.7-5 3.2-10.2 7-14.2Z" fill="#000"/></g><g transform="matrix(.99789 0 0 1 156 62)"><g fill-rule="evenodd" clip-rule="evenodd"><path d="M120.4 26.5c63-3.4 118.9-21.1 163.2 18.5 0 0 71.8-53.6 83.8-33.2 8 13.7-3.1 32-.2 49 19.5 33 18.4 89.2 19.5 102.4 2.8 33.1 20.2 157.9 20.2 187.5 0 15.1-12.4 54.7-20.2 76.8-17.3 49-50.3 74-104.4 74-54 0-142.4-45.2-170.7-85.3-2.5-3.5-18.5 6.7-35.3-11C58 385.7 48 349 48 327c0-27.8-18-47.1-15.9-82.8 4.7-79.5 21-214 88.3-217.8Z" fill="#d08b5b"/><path d="M367.4 11.6c8 13.7-3 32 0 49 7.4 12.7 11.9 29 14.6 44.8l-14.8 7.8-5.4.8c-88.2 13-144.6 24.7-169 35.1-24.6 10.5-54.5 47.5-89.7 110.8l-1 2-7 47.2-32 9.8-15 7.1c-.4-27.3-18-46.6-16-81.9 4.7-79.5 21-214 88.4-217.8 63-3.4 118.8-21.1 163.2 18.5C331.5 9.1 359.4-2 367.4 11.6Z" fill="#ffd93d"/><path d="M113.4-66h2.5l2.7.4a22 22 0 0 1 12 6.8l.2.3a31 31 0 0 1 4.1 3.7l.7-.6 2-1.6c3-2.6 6.6-4.5 10.4-5.6l.5-.1h.3c2.7-1 5.6-1.4 8.4-1.4 3.5-.1 6.9.4 10 1.7 3.9 1.6 7.2 4 10 7 1.8 1.6 3.4 3.2 5 5a37.5 37.5 0 0 1 8.6 14.9 170.7 170.7 0 0 1 27-1.3 132.3 132.3 0 0 1 45.9 9.9c3.6 1.4 7.1 3.3 10.4 5.5l2.8 1.7 4.1 2.5c3.2 2 6.3 4.4 9.2 7A99.8 99.8 0 0 1 301.1 0c6.3 3.4 12 7.8 17.2 13a128.4 128.4 0 0 1 28.2-11.9 98.6 98.6 0 0 1 18.8-3.5l4.1-.3 1.8-.2h1.5c.4-.1 1 .9 1 1.3l.1.3.9 1h.8c.7 0 1.6 1.3 2.1 1.9l.4.4a4 4 0 0 1 1 2c.6 4.1 1 8.3 1.5 12.5.1 3.1 0 6.2-.5 9.3l-1.2 9-2 6.3-.7 2.4c-1.6 5.3-3.5 10.4-5.7 15.4 1.6 1.8 3.1 3.6 4.5 5.6l1 1 .4-.3c.5-.2.8 0 1.1.4 3.2 3 5.4 6.6 6.9 10.6l.8 2 .5 1.1a73.7 73.7 0 0 1 4.1 16.9 312 312 0 0 1 5.5 22 5 5 0 0 1-.2 3l.9 1 1.6 1.5c2.7 2.7 5.5 5.6 7.5 8.8 2 3.3 3.6 6.9 5.3 10.4l.3.8.8 1.5a37 37 0 0 1 4 14.6 30.3 30.3 0 0 1-1.9 15.6c-1 4.6-3.5 8.8-7.3 11.5-.9.8-1.7 1.5-2.7 2a8.4 8.4 0 0 1-6.8.9h-.3l-.8-.3c.4.3.6.7 0 1a5 5 0 0 1-1.6.5c.2.3.2.6-.2.8-1 .5-1.8.7-2.6.5l.2 1.4c1.3 10.5 2.5 12.6 3.5 24 .7 11.5 1.8 23 3.3 34.5l.5 4.2a444.4 444.4 0 0 0 10 56.8c1.5 4.4 2.5 8.8 3 13.4a133 133 0 0 1 1.8 14.1c1.1 3 1.7 6.1 1.7 9.3.1 4.2 0 8.4-.5 12.6-.2 4.4-.8 8.7-1.8 13a73.5 73.5 0 0 1-4.6 17 164.8 164.8 0 0 1-20.2 44c-5 7.8-10.3 15.4-16.4 22.4A153.4 153.4 0 0 1 304 504a99.8 99.8 0 0 1-47 2.8 96 96 0 0 1-19.5-4.7c-5.2-1.8-10-4-15-6.3a80 80 0 0 1-21.4-15.7c-.5-.4-.2-1 .4-1.2h.2l-.7-.7-.2-.1-.3-.3c-.4-.4 0-1.1.3-1.3h.5v-.2l-.1-.2h-.2c-.5-.5-.2-1.2.4-1.4h1.3l.2.1-.4-.3c-.6-.5-.4-1 .3-1.3.6 0 1.1.2 1.7.3h.4l.6.3-1-1c-.4-.2 0-1 .3-1.2.4-.3 1.2 0 1.6.3.9.1 2 .5 2.5.9l3.7 3.3c.8.3 1.5.6 2.1 1 1.4 1.5 3 2.8 4.5 4l1.1.8.6.4 6.6 3.9 24 8.1 1.2.3 7.7 1c5.2.5 10.3.5 15.4 0a106 106 0 0 0 30.1-6 141.3 141.3 0 0 0 29.3-15.4 181.4 181.4 0 0 0 19.8-17.5l.9-.8 5.3-6.3 1.6-1.9c6.6-8.1 12.5-17 17.7-26 5.2-9 9.5-18.5 13-28.3 1-3.5 2-7 2.8-10.6a58.3 58.3 0 0 0 3.3-15.8v-1.4l.1-.7a85.7 85.7 0 0 0 .6-8.4v-8.7l-.1-.8-.3-2-1.3-11.8-.6-4.5-.4-2.6-.2-1.5a99 99 0 0 0-1.7-8l-.3-1.1-1.8-8.8-2-8.6a681.6 681.6 0 0 1-9.8-73.1c-.7-8.6-1-17.3-1.2-26 0-.4.2-.7.6-.9v-1.6c-.1-1.5-.1.3-.2-1.4v-5.3c-5.3.4-8.9 0-14-.2h-1c-4.7-.3-9.4-.8-14-1.6 0 .3-.2.4-.5.5h-1.4l.2.7c0 .3-.1.5-.5.6h-1.3a30.2 30.2 0 0 1-10-1l-3-.8-7.5-2.4c-2.6-.6-5.3-.8-8-.1-3 .7-5.4 2-8.5 1.2l-1.8-.7h-.8c-3.2-.5-6-2.5-9-3.6a5 5 0 0 0-3.2.2l-.3.2-1 .7-1.2 1.5-.6.7a15 15 0 0 1-3.6 3.4 9.1 9.1 0 0 1-6.2 2.6c-1.3 0-2.7-.3-4-.7-5 1.6-10.3 1.9-15.3.4a22.1 22.1 0 0 1-8.3-3c-3.5 1.4-6.9 3.4-10.2 5l-.8.5A22.7 22.7 0 0 1 234 197a139.8 139.8 0 0 1-14.8-1.8l-.7-.1-2.4-.4-2-.4-1 .4c-8 3-16.7 5.4-24.8 3.3a22 22 0 0 1-10-3.9l-1.3-.8h-.1l-.1-.1a11 11 0 0 1-6.5-11.2c-.3-1.5-.3-3 0-4.6l-4.3 5a334.7 334.7 0 0 0-15.7 20.1l-1 1.6c-2.8 3.8-5.3 7.8-7.6 11.8l-7.3 12c-3.2 3.5-6.3 7.2-9.4 11l-1.2 1.5-4.4 5.7a116.5 116.5 0 0 0-13.4 24.3 97.3 97.3 0 0 0-5.2 20.7v1a60 60 0 0 0-.3 3.5l.7.5.7.3.6.1c1 .3 2.5 1 2.1 1.6l-1.9 3.7c.2.2.3.5.2.7l-4 7.4v.2l3.1 1.7c2 1.2 3.5 2.6 4.9 4.2 1.4.9 2.8 1.8 4 2.9a30.5 30.5 0 0 1 6.8 11.3c.3 1 .5 2.1.5 3.3-1.2 8.5-11 2.7-11.2 2a26 26 0 0 0-6.3-12.3l-.1-.1c-2-.9-4-1.8-6-2.4l-1 .1c.3.5.1 1-.6 1.1-3.1.6-6.3.8-9.5.5l-4.9-.7c-2 .8-4 1.8-5.7 3l-.6.4h-.1A38.8 38.8 0 0 0 60.7 341l-.3.7A55.7 55.7 0 0 0 66 380 316 316 0 0 0 76 395.2l3.4 4.5a172 172 0 0 1 6.9 6.8l3.1 1.7 1.3.4c2 1 4.1 1.5 6.4 1.6 3 .2 5.8-.2 8.6-1l.6-.3.4-.1c1.5-1 3-2.2 4.3-3.6.3-.3.8-.3 1.5-.2l1-1.1c.2-.3.6-.3.9 0 1-.2 3.5 1.3 2.8 2l-.3.6 1.3.7c2 .6 5.2 2.7 5 3.3h-.1c-.5 1-1.1 1.8-2 2.4l-.2.2-.6.4c.9.5 1.6 1.1 1.2 1.5l-.5 1 5 6.2c1.7 3.7 3.8 7 6.3 10.2 2 3.5 4.5 6.5 7.5 9.3l.7.7 6.7 4.5 1 .6c.5.3 1.4.7 1 1.5l-.2.2c1.5 1 3 1.9 4.6 2.7h.1c.6.5 1.4 1.2.6 1.7-.7.5-2.6-.8-3.5-1.4l-.6-.1.9.5.4.2c.4.3 2.1 1.4 1 1.9-.7 0-1.2-.1-1.7-.5l-1.8-.9c.2.3.2.6-.3.8a3 3 0 0 1-.5 0c1.2.8 2.4 1.5 3.7 2.1l.2.1c.5.4 1.3 1 .7 1.6-.7.6-2.6-.7-3-1l-1.5-.9a1 1 0 0 1-.4.1l1.3.8.6.4c.8.4 1.9 1 1.5 1.8-.4.7-1.6.1-2.3-.3l-.8-.5-.1-.1v.1c-.5.7-1.4.3-2 0l-.6-.4-2.6-1.6-1.3-.8a82.6 82.6 0 0 1-19.3-15.5c-4.1-4.7-7.3-10.1-10.3-15.6l.2-.6-1-2a29.6 29.6 0 0 1-14.7 0 37.3 37.3 0 0 1-15-6.1l-.7-.6c-1.9-1-3.6-2.2-5.2-3.6a87 87 0 0 1-14.8-16.1l-5.5-7.7a66 66 0 0 1-9.7-26.6 53.5 53.5 0 0 1 0-18.1l-1-.9c0 .3-.2.5-.3.4l-2.3-2.3a53.3 53.3 0 0 1-14-32.6c-.7-5.2 0-10.2.7-15.3 0-.3.2-.5.5-.7l.1-1.2a35.2 35.2 0 0 1-11-25.7c.2-3.2.8-6.4 2-9.3l.2-.3c-5.5-.9-9.9-4.8-13.2-9.6l-.8-.7c-6-5-10-12.2-12.8-19.7a46 46 0 0 1-3.9-13.9v-1a89 89 0 0 1-1.2-23 114.8 114.8 0 0 1-4-21.5v-.5l-.2-1v-.6a139 139 0 0 1 11-62.3l2.2-5.3.7-1.9c8-12.8 20-23.2 30-34.1 3.5-3.8-2.1-9.5-5.6-5.7C16 61.6 8.8 68.6 2.4 76a28.1 28.1 0 0 1-9.3-.8c-4.7-.7-9-2.6-12.8-5.4-5.2-2.4-9.7-7-10.1-13v-1.7c-.5-3 0-6 1.2-8.8a15.2 15.2 0 0 1 5.4-8l.1-.2.7-.6 1-.9a54.8 54.8 0 0 1-3.6-6.9 28.4 28.4 0 0 1-2.2-11.5l-.1-1.5c-.3-4 .2-8.1 1.7-11.8l.3-.9 1-2.5c1.5-3.1 3.6-5.8 6.2-8a25.6 25.6 0 0 1 8-5.3c2.2-1.2 5-2.2 7.2-2.3h.8c.2-5.7 1-12 3.2-17.2 1.3-3.7 3.3-7 6.3-9.5C9-42.6 11.2-44 13.9-45l.5-.2h.1a17 17 0 0 1 7.7-1.6A17.3 17.3 0 0 1 32.8-44l1.5-2.6c2-3.1 4.2-5.8 7-8.3l1-.8 4-3.3c3.2-2.1 6.6-3.8 10.2-4.8 4.1-1.5 8.5-2.2 12.8-2h1.5a38.6 38.6 0 0 1 23.8 10c.8-1 1.7-2 2.8-3l1-.8.7-.7c1.2-1 2.5-2 3.9-2.8 1.5-.9 3.2-1.5 5-1.9 1.7-.6 3.5-1 5.4-1ZM92.8 346.3c.2 0 9.5 3.4 14 5.7h.3c5.3 2.7 8 4.6 12.7 8 .3.3.6.6.6 1 0 4.9-1.2 11-5.3 8.2l-1.8-1-1-.6c-9-5.6-18.5-9.9-28.6-13-.7-.2 4.4-8 5.8-7.5-.8-.3 3.2-.8 3.3-.8Zm95-218.1a4591.5 4591.5 0 0 1-29.5 3 81.9 81.9 0 0 1-23.3-1.4c-1.4 1-2.8 2-4.2 2.8l-15.9 12.1c-10.6 8.4-21 17.3-30.4 27a176.8 176.8 0 0 0-38.2 59.4c-.7.4-1.3 1.2-1.5 2.4-1.5 9-5.8 17.4-7.4 26.4-1.5 9 .5 16.5 6.1 23.6 1.2 1.5 3.7 1.4 5.2.4.3.7 1.8.6 2.4-2.4 2.5-2.7 4.6-5.5 6-9 1-2.6-.7-4.4-2.9-4.7a136.8 136.8 0 0 1 16.2-36.6 151.8 151.8 0 0 1 16.5-20.5l1.2-1.4c.2-.2.5-.2 1 0l1-1.3c.4-.4.8-.2 1 0 .7 0 1.8.6 2.2.8.6.4.8.9.3 1.5l-.3.3c.7.2 1.4.6 1.9 1 1.8.4 4.4 2.1 4 2.7l-2.8 3c.8.5 1.3 1 1.1 1.3A122.8 122.8 0 0 0 64.3 290v.7c-.3 3.5-.3 13-.7 15.3A49.6 49.6 0 0 0 72 309l.8-.3a28.1 28.1 0 0 1 11.6-2h.6l2.1.1v-1.2c-.3 0-.4-.3-.4-.5a66.2 66.2 0 0 1 2.3-26.2 107 107 0 0 1 5.1-15.6c6-14.4 14.6-27.4 23.2-40.4 6.3-9.4 12.2-19 18.8-28.4 5.5-7.9 11.3-15.7 17.5-23a235 235 0 0 1 23.3-24.2c6.7-6 14-11 21.6-15.8.3-.2.8 0 1.2.4l1.2-.8.6-.3c.2-.1.4 0 .6.2l1.5-.8 1.2-.9c-5.7-.2-11.3-.7-16.9-1.2Zm70.5-66.7c-4.5-.9-9-1-13.7-.3-1.9.2-3.8.6-5.7 1 4.3 3.7 7.8 8.5 10 14 2.4 6-7.2 8.6-9.6 2.7-2.3-5.7-6.7-10-12-12.6l-3.3 2a36.4 36.4 0 0 0-10.6 14.3 41.4 41.4 0 0 0-1.5 8c-1 10.3 2 20.4 7 29.3h.3c4.5-2.5 9.3-4.6 14.2-6.3a132.6 132.6 0 0 1 40.1-18l1.2-.3 6.9-1.6 1.4-.2-.2-1.5a43.6 43.6 0 0 0-15.3-27v-.1c-1.7-1-3.5-1.8-5.3-2.4l-.7-.3-3.2-.7Zm-121.9-8.9a161.3 161.3 0 0 0-58.9 5.5l2.3 4.6c3.8 7.7 7.7 15.3 12.3 22.5a108.3 108.3 0 0 0 15.9 19.6c2 1.8 4.3 3.3 6.8 4.6 2 1.4 4 2.7 6.1 3.8l.8.4 7.5 2.9 1.2.3.6.2 1.2.2.8-.5.5-.2c.2-.1.4.1.4.3v.3l1-.6a31.3 31.3 0 0 0 9 2.2h.1v.1h1.1c7.5.8 15.1-.2 22.6-1.5 10.5-1 21-2.3 31.6-3.4.2 0 .3.1.3.3l.7-.1c1-.1 2 1.5 1.3 2l1.5 1.2h.3a43.5 43.5 0 0 1-3.4-8.9l-1-5.2a47.3 47.3 0 0 1-.6-8.5v-2.2l-6-2.1-17.6-2.2a249.4 249.4 0 0 0-22.4 2.1c-.3 0-1-.4-1.4-1l-1.7.2c-.9.1-1.8-1.6-.6-2l1.2-.5.7-.2h-.8c-1 0-2 .2-2.8.3-1.2.1-1-1.4-.1-1.8h.4c-.7-.5-1.3-1.7-.5-2l.2-.1 1.1-.5v-.3l-1.6.2c-.1 0 .6-1 1-1.3l.8-.2c0-.4.7-1.1 1-1.2a102.8 102.8 0 0 1 14.2-3.7c0-.2.2-.3.3-.3a68.4 68.4 0 0 1 32.6 3.7l1 .4 2.8 1.1a40.3 40.3 0 0 1 2.1-6l-1-.5c-.1.4-.6.7-.8.5-7-4.7-14.3-8.6-22-11.7a112.8 112.8 0 0 0-23.8-7.6c-6-1.6-12-2.7-18.3-3.2Zm229 16-2.6 4.2c-4.5 7-10 13.4-16.1 19.1a50 50 0 0 1 12.8 1.6c.2-.2.4-.3.6-.2l.7.5a52.6 52.6 0 0 1 15.5 7v-4.6a82 82 0 0 0-6.3-20.5v-.5c-1.3-2.3-2.9-4.6-4.6-6.7Zm1.3-56.8-6.2 1.5c-3.9.6-7.6 1.6-11.2 3a188 188 0 0 0-14.7 6c-9.3 4.3-18.1 9.7-26.1 16.1l-1.5 1.2a79.2 79.2 0 0 0-5.2 4.9l-5.2 5.6c-2.1 2.3-4.5 4.3-6.5 6.7l-1 1.5 1.1.4c1 .4.8 2.1-.1 1.9l-1-.3c.2.1.3.3.3.4 0 .5-.3 1.2-1 1l-.7-.3-.2 1h.2c.7.2 2 1.3 2 2 .2.5-.2 1-.8 1l-1.3-.6c.3.3.5.6.5.8 0 .5-.4 1.1-1 1a7 7 0 0 1-2.4-1.3c-.2.3-.5.5-.7.4l-.4-.1.3.3.2.2c2.7 3 5.1 6.2 7 9.8l.4-.3 2.8-2.2.3-.3.2-.2-2 .7c.1-.3.6-1 .8-1.1 3-2.6 6-4.8 9.5-6.6a141.6 141.6 0 0 1 24.5-10.2l2.7-.9c.2 0 .3 0 .3.2l.4-.1c.9-.3 2.3 1.2 1.7 1.9l1 .9.2.2h.3c.7-.3 1.9.8 2.6 1.6l.6.6c.4.5 1.3 1.4.2 1.8l-1.2.4c0 .3-.1.5-.5.7l-1.3.4.7.7.4.4c.5.5 1.5 1.5.6 2h-.1l-1.2.4c.1.4 0 .7-.5 1-7.1 2.4-14.2 5.2-21 8.5-5.1 2.8-10.6 5-16.3 6.3-.4.2-1.5-.5-1.9-1.2l-.8.2-.5.1a44 44 0 0 1 2.3 9.8l3.4-.2c7.7-.4 15.6-.2 23.3.7a93 93 0 0 0 11.7-8.2 100.3 100.3 0 0 0 24-31 78 78 0 0 0 8.6-34.8V17.4l-.6-5.7Zm-73.2 67-.8.2.4 1 1-.8c-.2 0-.4-.2-.6-.4Zm71.8-81.2c1.8-.6 3.2-.8 4.1-.3-1.4 0-2.7.2-4 .3Z" fill="#000"/></g></g><g transform="translate(315 248)"><g fill-rule="evenodd" clip-rule="evenodd"><path d="M93.8 224.8c8-16 81.4-8.9 81.4-8.9l6.2 51s-35.4 11.3-56.5 9c-21-2.5-39-35.1-31-51.1Z" fill="#fff"/><path d="M99 251.5c-2.5-5.5 50-20.2 66.2-10.1 16.2 10 11.1 23.9 11.1 23.9S108 280.8 99 251.5Z" fill="#FF8181"/><path d="M89.3 215.3c12.2-14.2 32.9-15.2 50-11.7 11 2.3 21.6 6.1 32.7 7.5 5.2.7 10.5.9 15.7.8 5.2-.1 10.3-1.1 15.4-1 .8 0 1.1 1.1.4 1.5-7 4.4-16.5 5.7-24.8 6.6a93 93 0 0 1 .7 5.8l1.3 9.2c.8 6 1 12.3 2.5 18.2l.3 1a9 9 0 0 1 .3 3.4l.3-.1 1.1-.5.7-.4c2.6-1.2 5-2 8-1.7 2.3.2 4.2 1.7 4.2 4.2 0 11-14.7 14.5-23.1 16.6l-2.5.6c-10.8 2.6-21.7 4.9-32.8 5.4-17.7 1-37.7-4-49.3-18.4-10.8-13.4-12.8-33.4-1.1-47Zm80.6 46c-2-16.5-22.2-17.4-28-7-2.6-14.5-40.9-1.2-37.9 1.7 11.4 11 28.6 12 43.4 10 7.5-1 15-2.8 22.5-4.7Zm-22.5-43.2-5.1-.7-2-.3c-12.7-1.7-26.9-2.6-37.3 5.5a18 18 0 0 0-6.7 11A552 552 0 0 1 126 230l2.7-.3 18.6-1.7 4.3-.5 4.4-.4c1.6-.2 12-.7 14-.4.2-1.7.4-5.5.9-7.3-7.4.3-14.8-.3-22.1-1.2l-1.3-.2Zm23.4-73.7c7.6 4.6 19 15.3 11 26.6-9.6 10-23.4-1.4-30.2-6.6-6.3-4-13.3 6.3-7.5 11 49 36.3 69-29.8 30.5-36.4-4.2-.8-5.8 4-3.8 5.4Zm13.5 19.3.4-.2h.1c.2-.2 0-.2-.4 0l-.4.1v.3l.3-.2ZM87.6 123v-.2c0-6.4 3.7-21 13-21 5.7 0 9.1 10 9.7 20.2v.4c.3 6.4-1.4 20.2-9.8 20.2S87.7 129.4 87.6 123Zm135.2-2v-.2c0-6.4-3.8-21-13-21-5.5 0-9 9.5-9.7 19.4v.8c-.4 6.1 1.2 20.6 9.8 20.6 8.4 0 12.8-13.1 12.9-19.6Zm-130-62.6c7.5-1.2 17.5 1 21 8.6 1.5 3.4-.3 7.2-4.2 7.4-9.5.4-18-1.7-26.4 4.5a42 42 0 0 0-9 10l-1 1.4-.8 1.1c-1.7 2.5-3.4 5.3-3.1 8.3 0 1-.9 1.8-1.7 1.7-5.5-.2-6-7-5.4-11.1 1.4-7.7 5-14.8 10.2-20.6 5.4-6 12.4-10 20.5-11.3ZM196 67.5a29.3 29.3 0 0 1 17.9-4c12 .9 32 11 29.3 25.6-.8 4.5-7 6.9-10.8 4.4-4-2.7-4.9-6.9-7.8-10.4a28.5 28.5 0 0 0-8.6-6.5 28.3 28.3 0 0 0-10.3-3.1h-.6c-2.2-.3-13-.2-11.4 3.8.3.8-.9 1.5-1.4.9-3.4-3.7.4-8.5 3.7-10.7Z" fill="#000"/></g></g><g transform="translate(279 400)"></g><g transform="translate(179 343)"></g><g transform="translate(203 303)"></g></g></svg></div>
@@ -337,7 +333,8 @@ h1{
     var at = 0, beat = 125 / (rate || 1);
     (function next(i) {
       if (i >= words.length) {
-        later(function () { stopMouth(); setFace("idle"); done(); }, 420 / (rate || 1));
+        // `at` has accumulated the whole line by now: wait for the last word, then hand over.
+        later(function () { stopMouth(); setFace("idle"); done(); }, at + 420 / (rate || 1));
         return;
       }
       var hold = (190 + syllables(words[i].textContent) * 150) / (rate || 1);

diff --git a/docs/prototypes/src/01-talk-with-maya.html b/docs/prototypes/src/01-talk-with-maya.html
@@ -114,11 +114,7 @@ h1{
 .card[data-state="listen"] .scene{transform:translateY(16px) scale(1.07) rotate(-2.5deg)}
 .card[data-state="good"] .scene{transform:translateY(-6px) scale(1.04)}
 .card[data-state="miss"] .scene{transform:translateY(10px) scale(1.05) rotate(2deg)}
-/* the spotlight disc sits behind her head and holds the lean-in with her */
-.disc{
-  position:absolute; z-index:0; left:50%; width:352px; height:352px; margin-left:-176px; top:100px;
-  border-radius:50%; background:var(--cream); border:3px solid var(--ink);
-}
+/* No disc behind her: the card is one block colour and she is cropped straight into it. */
 .sway{width:100%; height:100%; animation:sway 3.4s ease-in-out infinite}
 @keyframes sway{0%,100%{transform:rotate(-1.1deg) translateY(0)} 50%{transform:rotate(1.1deg) translateY(-5px)}}
 .face{position:absolute; inset:0; opacity:0}
@@ -168,7 +164,8 @@ h1{
   transition:transform .14s var(--spring), opacity .2s;
 }
 .pill:active{transform:translateY(2px) scale(.985)}
-.pill[disabled]{opacity:.42; cursor:default}
+/* Dimmed, but the label still clears 4.5:1 against the pill. */
+.pill[disabled]{opacity:.68; cursor:default; box-shadow:none}
 .pill .chev{font-size:22px; line-height:1; margin-top:-2px}
 .pill svg{width:22px; height:22px; display:block}
 .pill .ring{
@@ -222,7 +219,6 @@ h1{
     </div>
 
     <div class="scene" id="scene">
-      <span class="disc" aria-hidden="true"></span>
       <div class="sway" id="sway">
         <div class="face on" data-face="idle"><!--cast:maya-idle--></div>
         <div class="face" data-face="talk"><!--cast:maya-talk--></div>
@@ -337,7 +333,8 @@ h1{
     var at = 0, beat = 125 / (rate || 1);
     (function next(i) {
       if (i >= words.length) {
-        later(function () { stopMouth(); setFace("idle"); done(); }, 420 / (rate || 1));
+        // `at` has accumulated the whole line by now: wait for the last word, then hand over.
+        later(function () { stopMouth(); setFace("idle"); done(); }, at + 420 / (rate || 1));
         return;
       }
       var hold = (190 + syllables(words[i].textContent) * 150) / (rate || 1);
